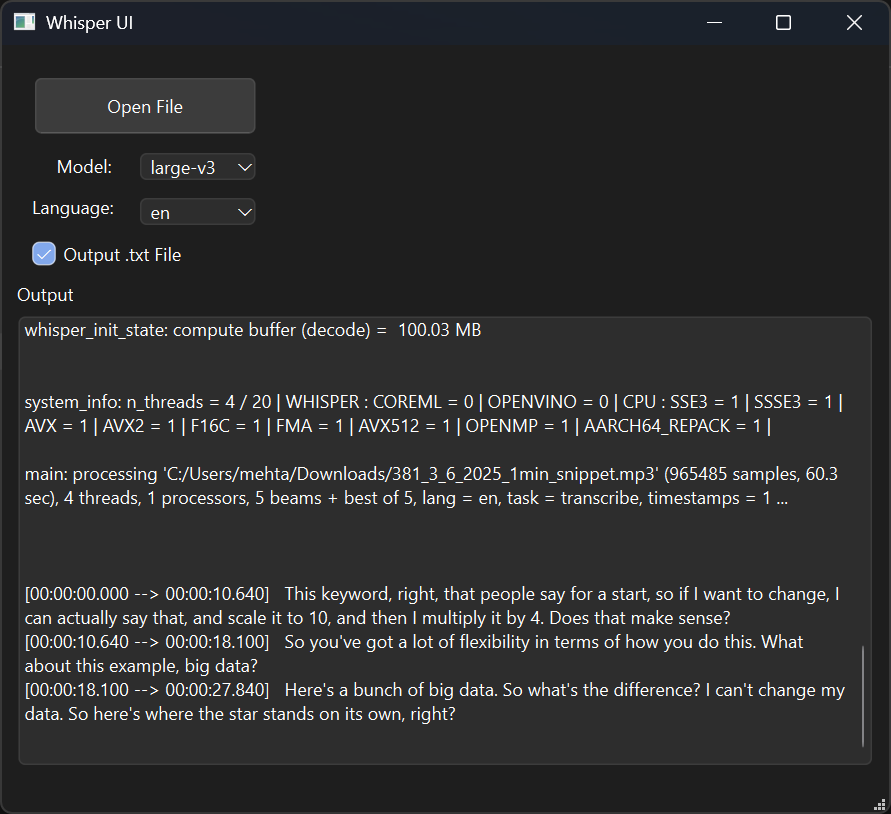
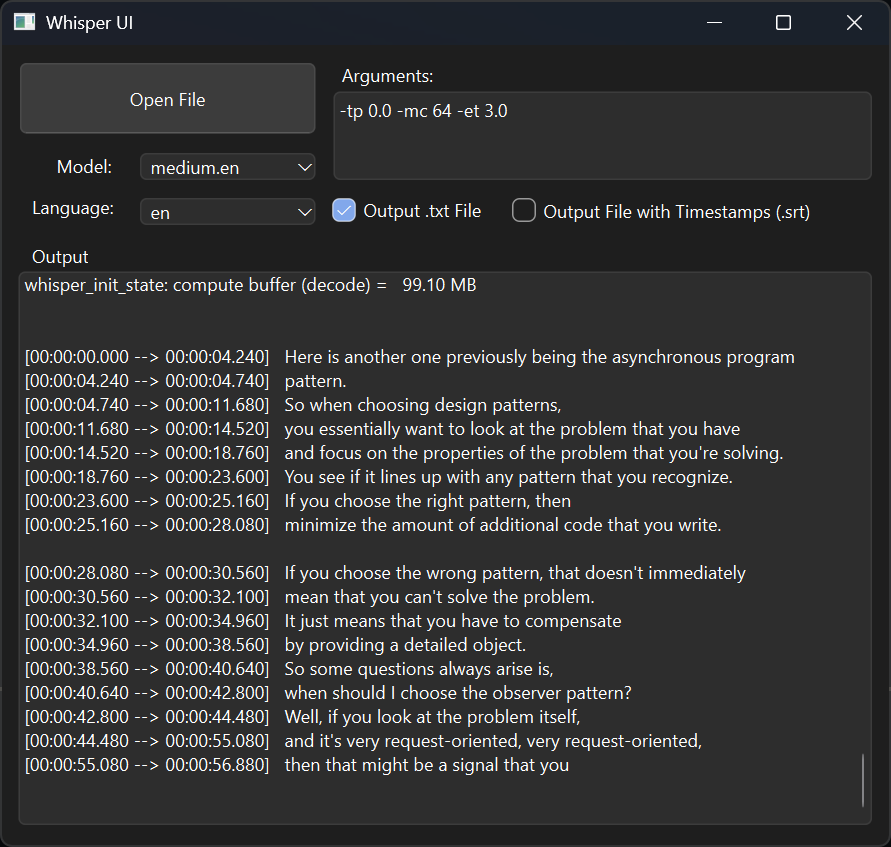
Update preview and readme

diff --git a/README.md b/README.md
@@ -7,12 +7,13 @@ A fast, native desktop UI for transcribing audio using Whisper — built entirel
 ---
 
 ## Features
-- Installer handles everything for you using Inno Setup — from downloading dependencies to compiling Whisper for your specific hardware.
+- Installer handles everything for you — from downloading dependencies to compiling/optimizing Whisper for your specific hardware.
+- Choice of .txt files, or .srt files with timestamps!
 - Fully C++ implementation — no Python!
 - Uses Vulkan for cross-platform GPU acceleration.
 - Drag & drop or use “Open With” to load audio.
 - Automatically converts audio to `.mp3` if needed using FFmpeg.
-- Dropdown menu to select the model (e.g. `tiny`, `base`, `large-v3`).
+- Dropdown menu to select the model (e.g. `tiny`, `medium-en`, `large-v3`).
 - Automatically downloads the chosen model if missing.
 - Runs whisper with the selected model.
 - Shows all output in a console box.
@@ -23,7 +24,7 @@ A fast, native desktop UI for transcribing audio using Whisper — built entirel
 ## Requirements
 
 - Windows 10 or later  
-- AMD, Intel, or NVIDIA Graphics Card
+- AMD, Intel, or NVIDIA Graphics Card with Vulkan support. (99%)
 
 ---
 
@@ -52,8 +53,10 @@ Your support truly helps and is greatly appreciated!
 Copyright (c) 2025 Mehtab Mahir
 All rights reserved.
 
-This software is proprietary and may not be copied, modified, distributed,
-or used for commercial purposes without explicit permission from the author.
+This software is proprietary and the following is not allowed for commercial purposes:
+it may not be copied, modified, distributed, or used without explicit permission from the author.
+
+Those actions are permitted for personal use ONLY.
 
 This application includes the following open-source components:
 
@@ -86,7 +89,6 @@ Installer built with Inno Setup
 License: Free for commercial and non-commercial use  
 https://jrsoftware.org/isinfo.php
 
-Huge thanks to Jordan Russell and all contributors to Inno Setup.
 ```
 
 ---
